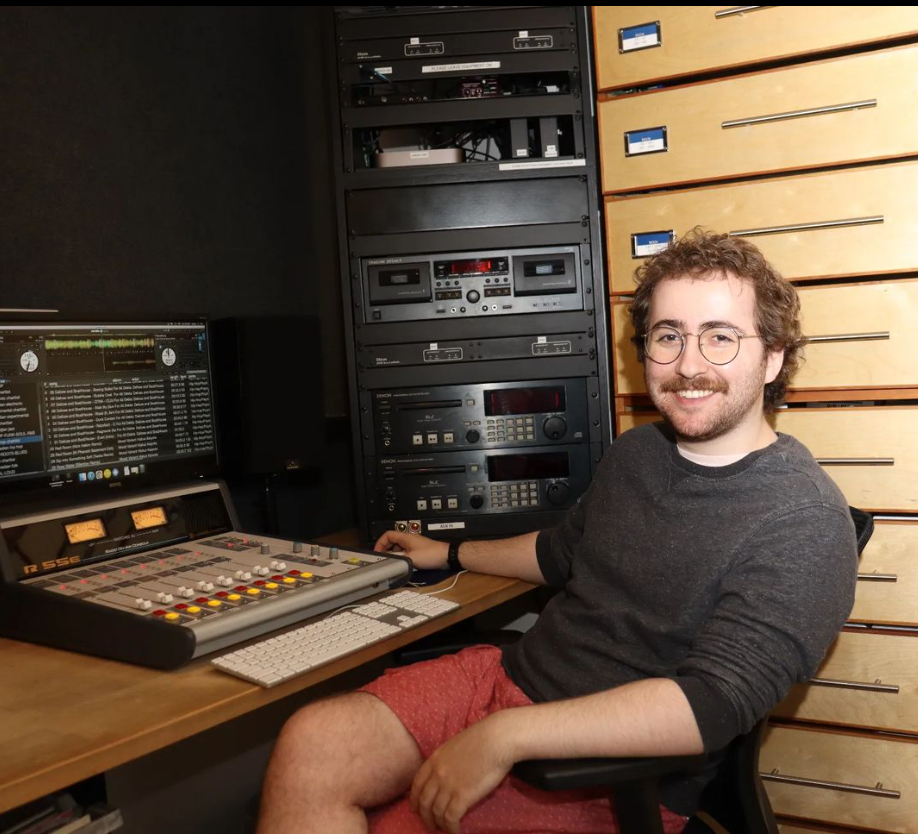
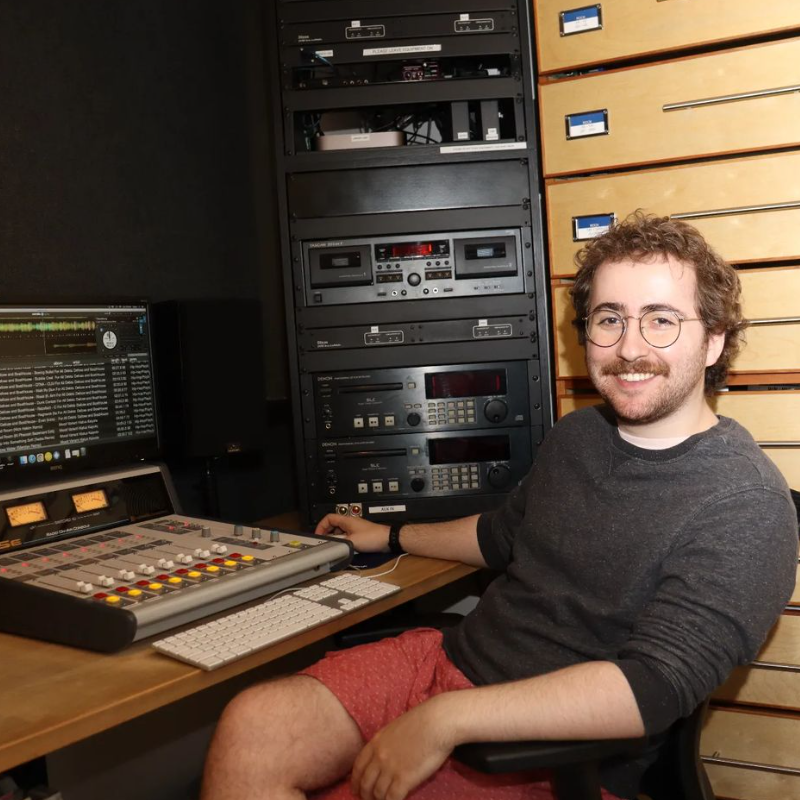
Add cropped image for circle view

diff --git a/src/components/main.jsx b/src/components/main.jsx
@@ -7,7 +7,7 @@ const Main = () => {
       <div className={ logoContainer }>
         <img
           className={ logo }
-          src="https://github.com/curtis-wils0n/curtis-wils0n.github.io/blob/feature/front-page/src/images/doghouse.png?raw=true"
+          src="https://github.com/curtis-wils0n/curtis-wils0n.github.io/blob/feature/front-page/src/images/profile.png?raw=true"
           alt="Doghouse logo"
         />
       </div>

diff --git a/src/components/main.module.css b/src/components/main.module.css
@@ -12,4 +12,5 @@
 }
 .logo {
   width: 40%;
+  border-radius: 50%;
 }
